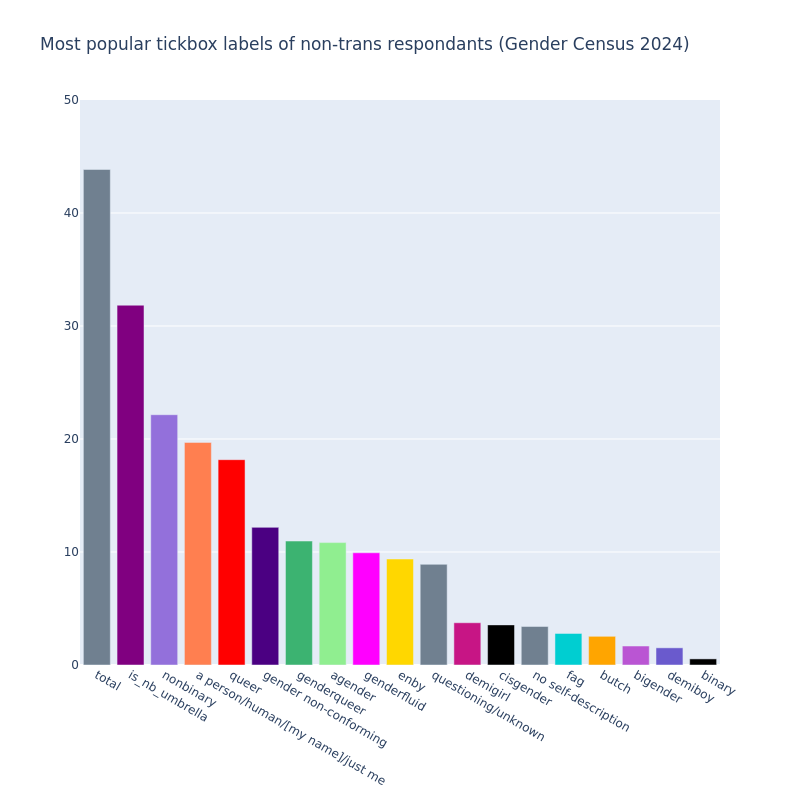
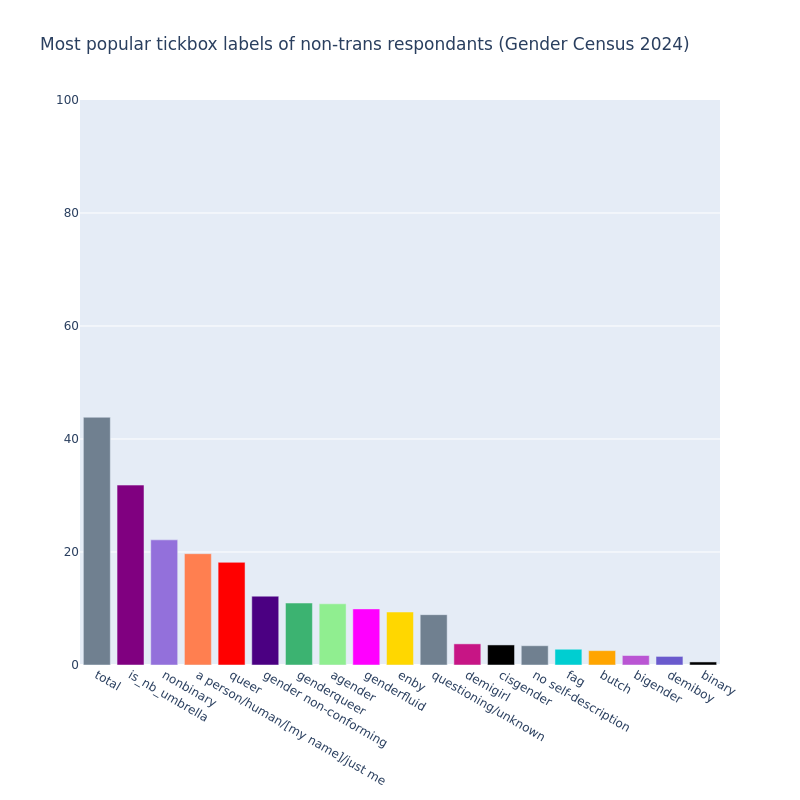
make scale same for all sub group most popular labels charts to better compare them

Changed region(s): [[0.0938, 0.1875, 0.9062, 0.8438]]

diff --git a/visualisation/make_bar_charts.py b/visualisation/make_bar_charts.py
@@ -30,6 +30,9 @@ def make_simple_bar(input_srs:pd.Series, data_case:str):
         "total_users", 
         "tickbox_label_total", 
         "tickbox_nb_labels",
+        "tickbox_non_trans",
+        "tickbox_non_nb",
+        "tickbox_non_nb_trans",
         "tickbox_trans_labels",
         "tickbox_queer_labels",
     ]:
